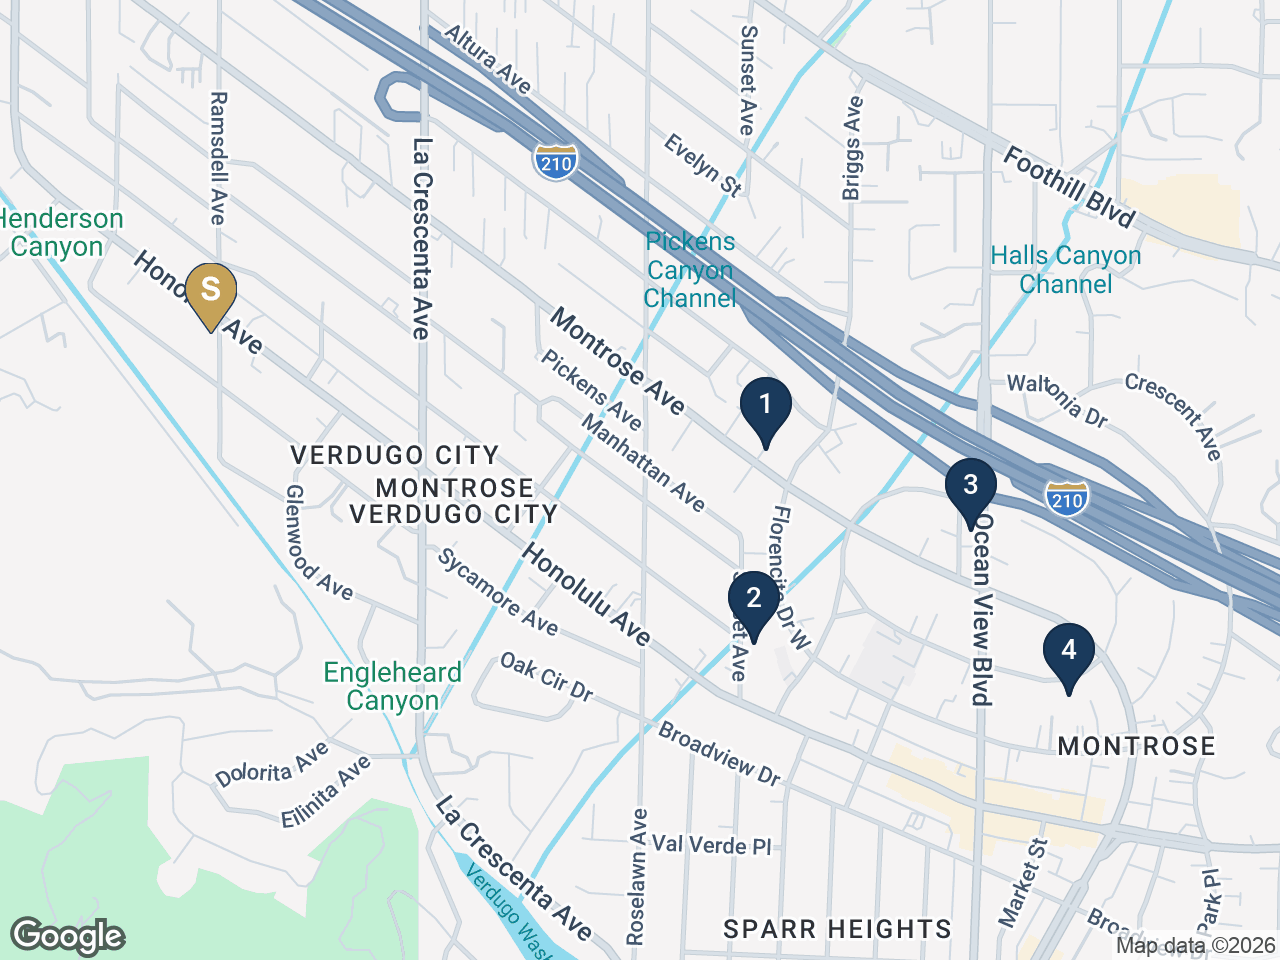
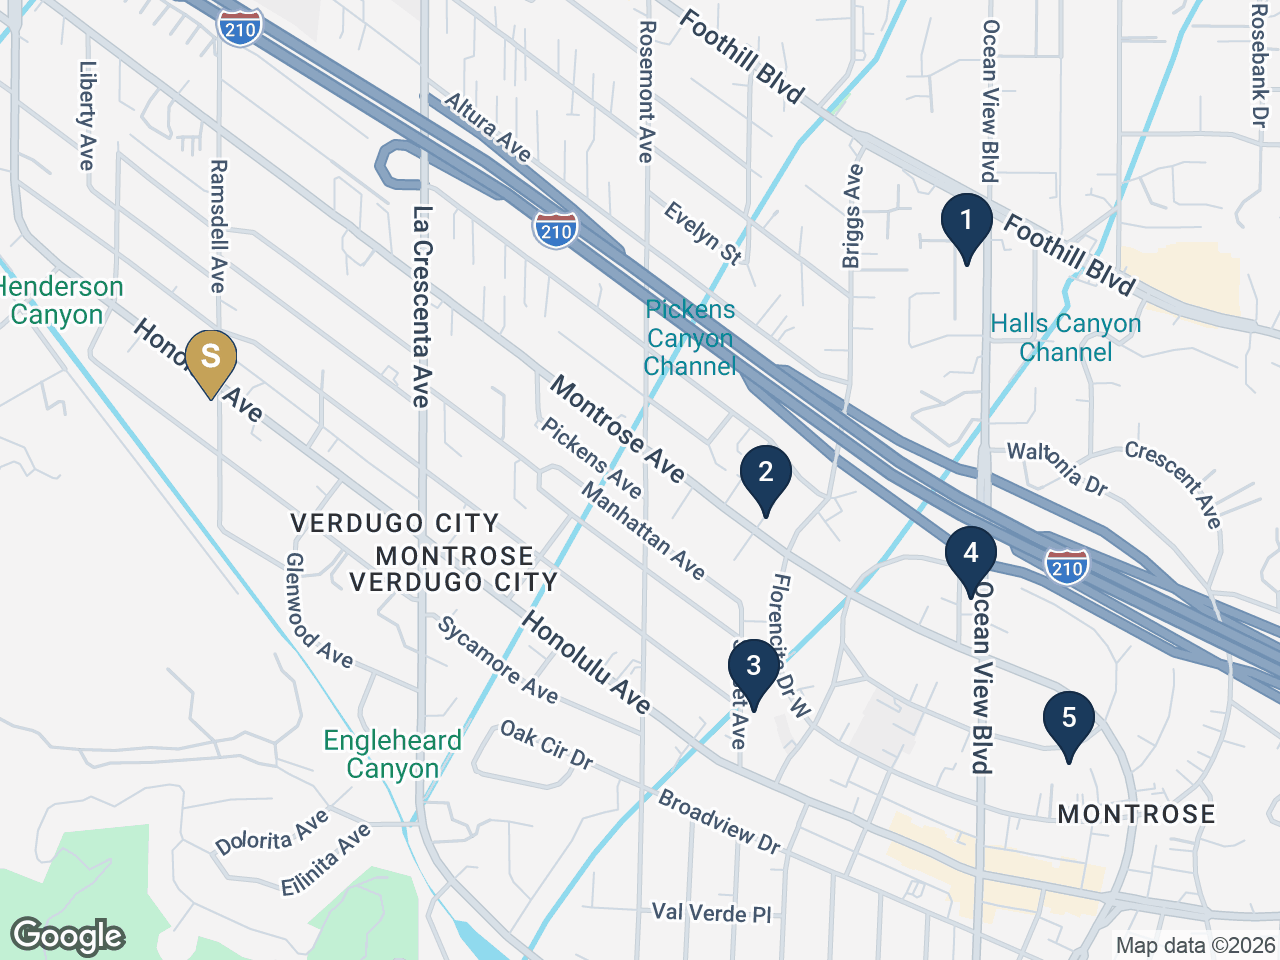
Add Ocean View Gardens sale comp and M&M attribution
Adds 4439 Ocean View Blvd, Ocean View Gardens Apartments, 20 units,
$5,540,000, closed 2026-07-31, as the anchor Honolulu comp. It is the
closest match in the set on unit count, price, vintage and unit size, and
its 5.60% cap reproduces exactly from the reported $310,240 NOI.

All four existing comps retained; weights rebalanced only. Notes that
Marcus & Millichap transacted two of the five, and that 4123 Ocean View
was closed by the LAAA Team itself, verified against the published
track record.

diff --git a/3000-honolulu/index.html b/3000-honolulu/index.html
@@ -3,7 +3,7 @@
 <head>
 <meta charset="UTF-8">
 <meta name="viewport" content="width=device-width, initial-scale=1.0">
-<meta name="laaa-figures-pulled" content="2026-09-03T21:05:47+00:00">
+<meta name="laaa-figures-pulled" content="2026-09-03T21:58:19+00:00">
 <meta name="description" content="17-Unit Multifamily Investment - La Crescenta, CA 91214 | LAAA Team - Marcus &amp; Millichap">
 <meta property="og:title" content="Broker Opinion of Value - Gardens at La Crescenta">
 <meta property="og:description" content="17-Unit Multifamily Investment - La Crescenta, CA 91214 | LAAA Team - Marcus &amp; Millichap">
@@ -748,17 +748,17 @@ table.bm-soft tr.highlight td{background:#FFF8E7;border-left:3px solid #C5A258;f
 <div class="page-break-marker"></div>
 <div class="section" id="sale-comps">
   <div class="section-title">Sale Comparables</div>
-  <div class="section-subtitle">4 Closed Sales in the Submarket</div>
+  <div class="section-subtitle">5 Closed Sales in the Submarket</div>
   <div class="section-divider"></div>
   <div class="loc-wide-map comp-map"><picture><source media="(max-width: 700px)" srcset="../images/maps-3000-honolulu-sale-comps-tall.png"><img src="../images/maps-3000-honolulu-sale-comps.png" alt="Sale Comps Map" loading="lazy"></picture></div>
   <div class="table-scroll"><table>
-    <thead><tr><th>Address</th><th class="num">Yr</th><th class="num">Units</th><th class="num">Bldg SF</th><th class="num">Sale Price</th><th class="num">$/Unit</th><th class="num">$/SF</th><th class="num">GRM</th><th class="num">Cap</th><th class="num">Date</th></tr></thead>
-    <tbody><tr><td><span class="map-ref">1</span>2463 Montrose Ave, Montrose, CA 91020, USA</td><td class="num">1962</td><td class="num">8</td><td class="num">7,924</td><td class="num">$3,200,000</td><td class="num">$400,000</td><td class="num">$404</td><td class="num">-</td><td class="num">-</td><td class="num">2025-08-15</td></tr><tr><td><span class="map-ref">2</span>3822 Sunset Ave, Montrose, CA 91020, USA</td><td class="num">1961</td><td class="num">9</td><td class="num">8,138</td><td class="num">$2,935,000</td><td class="num">$326,111</td><td class="num">$361</td><td class="num">-</td><td class="num">-</td><td class="num">2026-01-15</td></tr><tr><td><span class="map-ref">3</span>4123 Ocean View Blvd, Montrose, CA 91020, USA</td><td class="num">1948</td><td class="num">6</td><td class="num">3,998</td><td class="num">$1,685,000</td><td class="num">$280,833</td><td class="num">$421</td><td class="num">12.33</td><td class="num">5.04%</td><td class="num">2026-03-15</td></tr><tr><td><span class="map-ref">4</span>2218 Mira Vista Ave, Montrose, CA 91020, USA</td><td class="num">1960</td><td class="num">8</td><td class="num">5,664</td><td class="num">$2,700,000</td><td class="num">$337,500</td><td class="num">$477</td><td class="num">-</td><td class="num">-</td><td class="num">2025-04-15</td></tr>
-<tr class="summary"><td><strong>Median (4 comps)</strong></td><td class="num"><strong>1960</strong></td><td class="num"><strong>8</strong></td><td class="num"><strong>6,794</strong></td><td class="num"><strong>$2,817,500</strong></td><td class="num"><strong>$331,806</strong></td><td class="num"><strong>$413</strong></td><td class="num"><strong>12.33</strong></td><td class="num"><strong>5.04%</strong></td><td class="num">-</td></tr>
+    <thead><tr><th>Address</th><th class="num">Yr</th><th class="num">Units</th><th class="num">Bldg SF</th><th class="num">Land SF</th><th class="num">Sale Price</th><th class="num">$/Unit</th><th class="num">$/SF</th><th class="num">$/Land SF</th><th class="num">GRM</th><th class="num">Cap</th><th class="num">Date</th></tr></thead>
+    <tbody><tr><td><span class="map-ref">1</span>Ocean View Gardens Apartments, 4439 Ocean View Blvd, Montrose, CA 91020, USA</td><td class="num">1962</td><td class="num">20</td><td class="num">16,338</td><td class="num">19,602</td><td class="num">$5,540,000</td><td class="num">$277,000</td><td class="num">$339</td><td class="num">$282.62</td><td class="num">11.59</td><td class="num">5.60%</td><td class="num">2026-07-31</td></tr><tr><td><span class="map-ref">2</span>2463 Montrose Ave, Montrose, CA 91020, USA</td><td class="num">1962</td><td class="num">8</td><td class="num">7,924</td><td class="num">-</td><td class="num">$3,200,000</td><td class="num">$400,000</td><td class="num">$404</td><td class="num">-</td><td class="num">-</td><td class="num">-</td><td class="num">2025-08-15</td></tr><tr><td><span class="map-ref">3</span>3822 Sunset Ave, Montrose, CA 91020, USA</td><td class="num">1961</td><td class="num">9</td><td class="num">8,138</td><td class="num">-</td><td class="num">$2,935,000</td><td class="num">$326,111</td><td class="num">$361</td><td class="num">-</td><td class="num">-</td><td class="num">-</td><td class="num">2026-01-15</td></tr><tr><td><span class="map-ref">4</span>4123 Ocean View Blvd, Montrose, CA 91020, USA</td><td class="num">1948</td><td class="num">6</td><td class="num">3,998</td><td class="num">-</td><td class="num">$1,685,000</td><td class="num">$280,833</td><td class="num">$421</td><td class="num">-</td><td class="num">12.33</td><td class="num">5.04%</td><td class="num">2026-03-15</td></tr><tr><td><span class="map-ref">5</span>2218 Mira Vista Ave, Montrose, CA 91020, USA</td><td class="num">1960</td><td class="num">8</td><td class="num">5,664</td><td class="num">-</td><td class="num">$2,700,000</td><td class="num">$337,500</td><td class="num">$477</td><td class="num">-</td><td class="num">-</td><td class="num">-</td><td class="num">2025-04-15</td></tr>
+<tr class="summary"><td><strong>Median (5 comps)</strong></td><td class="num"><strong>1961</strong></td><td class="num"><strong>8</strong></td><td class="num"><strong>7,924</strong></td><td class="num"><strong>19,602</strong></td><td class="num"><strong>$2,935,000</strong></td><td class="num"><strong>$326,111</strong></td><td class="num"><strong>$404</strong></td><td class="num"><strong>$282.62</strong></td><td class="num"><strong>11.96</strong></td><td class="num"><strong>5.32%</strong></td><td class="num">-</td></tr>
 </tbody>
   </table></div>
 <p class="narrative">Four closed Montrose sales frame the valuation, all within 1.2 miles. Price per unit runs $280,833 to $400,000 and the recommendation sits mid range at $338,235. Price per SF runs $361 to $477 against $422 here, also mid range. Every comp is materially smaller, 6 to 9 units against 17, so the set brackets the per unit and per foot pricing rather than matching operating scale.</p>
-  <div class="comp-narratives"><p class="narrative"><strong>1. 2463 Montrose Ave, Montrose, CA 91020, USA</strong> - Closest comp to the subject at seven tenths of a mile, and the nearest on vintage. 8 units against 17.; Average unit 991 SF against the subject&#x27;s 802 SF. Closed August 2025.; No income detail available in the comp file.</p><p class="narrative"><strong>2. 3822 Sunset Ave, Montrose, CA 91020, USA</strong> - Nearest match on unit count and vintage, and the second most recent close. 9 units against 17.; Average unit 904 SF against the subject&#x27;s 802 SF. Closed January 2026.; No income detail available in the comp file.</p><p class="narrative"><strong>3. 4123 Ocean View Blvd, Montrose, CA 91020, USA</strong> - Most recent close in the set and the only one carrying income detail, but the smallest and oldest. 6 units against 17, and the oldest at 1948.; Average unit 666 SF against the subject&#x27;s 802 SF. Closed March 2026, the most recent in the set.</p><p class="narrative"><strong>4. 2218 Mira Vista Ave, Montrose, CA 91020, USA</strong> - Similar vintage and unit count, but the oldest sale and the highest price per SF in the set. 8 units against 17.; Average unit 708 SF against the subject&#x27;s 802 SF. Closed April 2025, the oldest in the set.; No income detail available in the comp file.</p></div>
+  <div class="comp-narratives"><p class="narrative"><strong>1. Ocean View Gardens Apartments, 4439 Ocean View Blvd, Montrose, CA 91020, USA</strong> - Closest comparable in the set on unit count, price, vintage and unit size, and the most recent close. Carries a transaction-supported cap and GRM. 20 units against the subject&#x27;s 17, the closest unit count in the set.; 16,338 SF against 13,628, and 0.45 acres against 0.40.; Average unit 817 SF against the subject&#x27;s 802, effectively the same unit size.; Built 1962 against 1958. Sold by Marcus &amp; Millichap.; Closed 31 July 2026, the most recent sale in the set, after 93 days on market.; Achieves about $1,992 per unit per month against the subject&#x27;s $2,624, so the subject earns roughly 32% more per unit on effectively the same unit size.; Capital work completed before the sale included a seismic retrofit, an updated main electrical panel and mostly copper supply lines. On-site laundry adds income.; The seller&#x27;s marketing materials stated that only six properties of 20 or more units traded in the surrounding corridor over the prior 20 years. Recorded as the seller&#x27;s claim, not verified by LAAA.</p><p class="narrative"><strong>2. 2463 Montrose Ave, Montrose, CA 91020, USA</strong> - Closest comp to the subject at seven tenths of a mile, and the nearest on vintage. 8 units against 17.; Average unit 991 SF against the subject&#x27;s 802 SF. Closed August 2025.; No income detail available in the comp file.</p><p class="narrative"><strong>3. 3822 Sunset Ave, Montrose, CA 91020, USA</strong> - Nearest match on unit count and vintage, and the second most recent close. 9 units against 17.; Average unit 904 SF against the subject&#x27;s 802 SF. Closed January 2026.; No income detail available in the comp file.</p><p class="narrative"><strong>4. 4123 Ocean View Blvd, Montrose, CA 91020, USA</strong> - Most recent close in the set and the only one carrying income detail, but the smallest and oldest. 6 units against 17, and the oldest at 1948.; Average unit 666 SF against the subject&#x27;s 802 SF. Sold by the LAAA Team of Marcus &amp; Millichap. The transaction appears in the team&#x27;s published track record at laaa.com/track-record, 6 units at $1,685,000, closed 2026.; Closed March 2026, the most recent in the set.</p><p class="narrative"><strong>5. 2218 Mira Vista Ave, Montrose, CA 91020, USA</strong> - Similar vintage and unit count, but the oldest sale and the highest price per SF in the set. 8 units against 17.; Average unit 708 SF against the subject&#x27;s 802 SF. Closed April 2025, the oldest in the set.; No income detail available in the comp file.</p></div>
 </div>
 
 <div class="page-break-marker"></div>

diff --git a/16550-vanowen/index.html b/16550-vanowen/index.html
@@ -3,7 +3,7 @@
 <head>
 <meta charset="UTF-8">
 <meta name="viewport" content="width=device-width, initial-scale=1.0">
-<meta name="laaa-figures-pulled" content="2026-09-03T21:05:47+00:00">
+<meta name="laaa-figures-pulled" content="2026-09-03T21:58:19+00:00">
 <meta name="description" content="52-Unit Multifamily Investment - Van Nuys (Lake Balboa), CA 91406 | LAAA Team - Marcus &amp; Millichap">
 <meta property="og:title" content="Broker Opinion of Value - Terraces at the Lake">
 <meta property="og:description" content="52-Unit Multifamily Investment - Van Nuys (Lake Balboa), CA 91406 | LAAA Team - Marcus &amp; Millichap">

diff --git a/index.html b/index.html
@@ -3,7 +3,7 @@
 <head>
 <meta charset="UTF-8">
 <meta name="viewport" content="width=device-width, initial-scale=1.0">
-<meta name="laaa-figures-pulled" content="2026-09-03T21:05:47+00:00">
+<meta name="laaa-figures-pulled" content="2026-09-03T21:58:19+00:00">
 <meta name="description" content="69-Unit Two-Property Multifamily Portfolio | LAAA Team - Marcus &amp; Millichap">
 <meta property="og:title" content="Broker Opinion of Value - Fernando Shahbaznia Portfolio">
 <meta property="og:description" content="69-Unit Two-Property Multifamily Portfolio | LAAA Team - Marcus &amp; Millichap">
